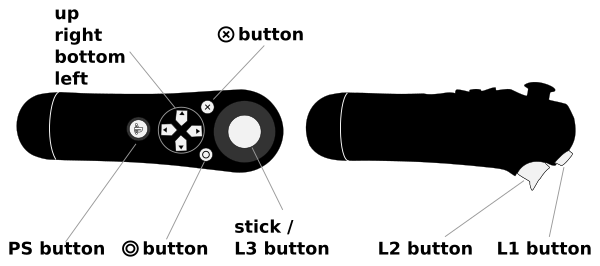
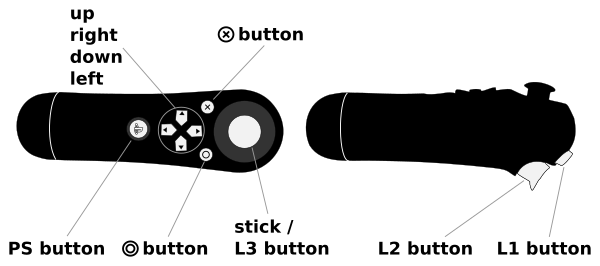
Fix the PS3 buttons terminology.
Use of some button names was incorrect (e.g mixing down and bottom terms).

diff --git a/README.rst b/README.rst
@@ -379,7 +379,7 @@ Configure
         * **action**
         * **keyboard mapping**
         * **comment**
-      + * up/bottom
+      + * up/down
         * volume up/down
         * up/down
         *
@@ -398,7 +398,7 @@ Configure
       + * PS button
         * unchanged
         *
-        * turn the controller on/turn the controller down (if pressed for 10+ secs)
+        * turn the controller on, turn the controller off (if pressed for 10+ secs)
       + * L1 button
         * pause
         * space
@@ -419,7 +419,7 @@ Configure
         * none
         *
         *
-      + * stick top
+      + * stick up
         * none
         *
         *
